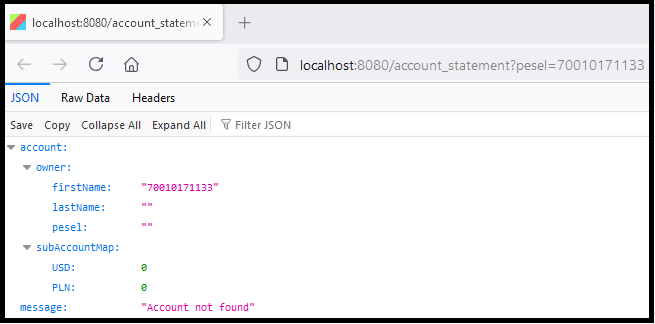
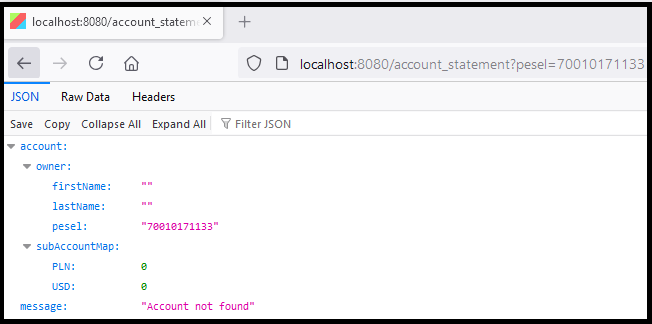
it works

diff --git a/src/main/java/kp/Constants.java b/src/main/java/kp/Constants.java
@@ -24,7 +24,7 @@ public class Constants {
                     BigDecimal.ZERO, Currency.getInstance("XXX"), BigDecimal.ZERO,
                     "Currency exchange error");
     public static final Function<String, AccountStatement> ACCOUNT_STATEMENT_EMPTY_FUN = pesel ->
-            new AccountStatement(new Account(new Owner(pesel, "", "")), "Account not found");
+            new AccountStatement(new Account(new Owner("", "", pesel)), "Account not found");
     public static final Function<String, String> ACCOUNT_STATEMENT_OK_MSG =
             pesel -> String.format("The account statement, PESEL '%s'", pesel);
     public static final String CURRENCY_EXCHANGE_MSG = "The currency exchange receipt";
